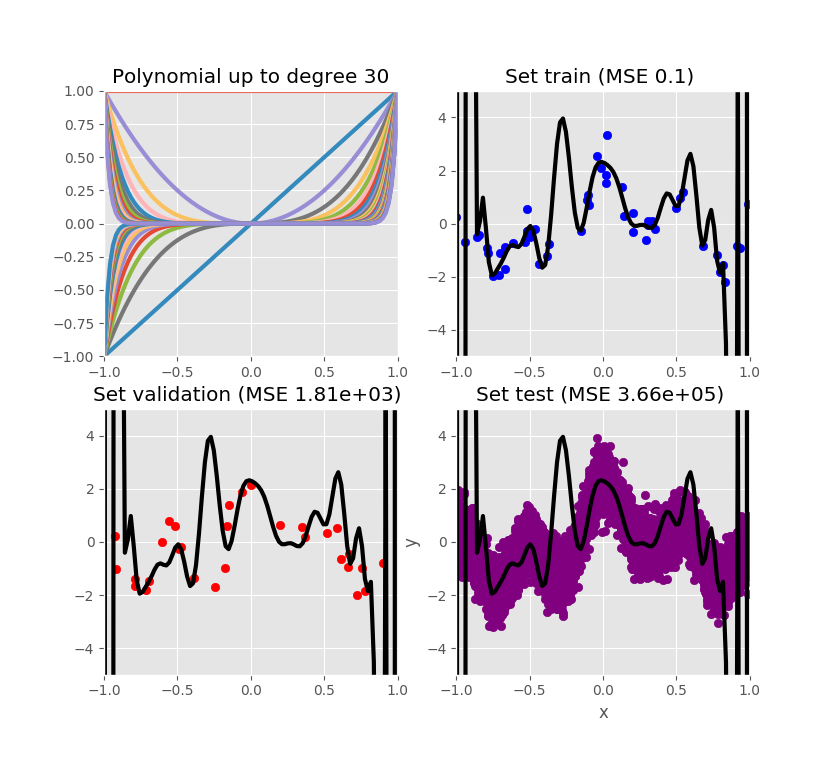
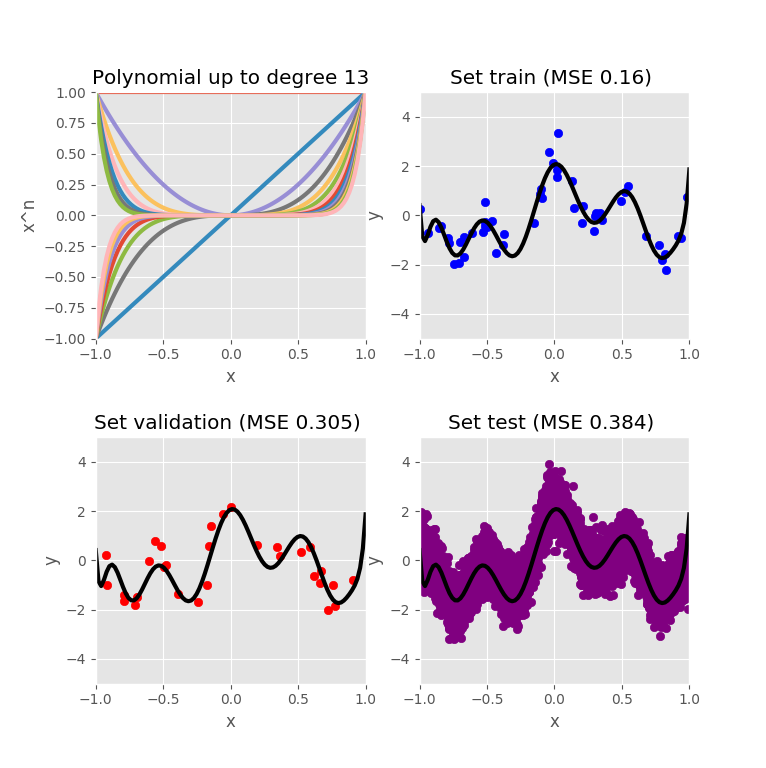
fixing scipy

Changed region(s): [[0.03, 0.091, 0.9308, 0.9103]]

diff --git a/assignement01/sources/main_logreg.py b/assignement01/sources/main_logreg.py
@@ -9,6 +9,10 @@ import gradient_descent as gd
 import logreg as lr
 import logreg_toolbox
 
+from mpl_toolkits.mplot3d import Axes3D
+from matplotlib import cm
+from matplotlib.ticker import LinearLocator, FormatStrFormatter
+
 __author__ = 'bellec, subramoney'
 
 """
@@ -21,9 +25,9 @@ This is the main file that loads the data, compute the solution and plot the res
 
 def main():
     # Set parameters
-    degree = 10
+    degree = 5
     eta = 1
-    max_iter = 2000
+    max_iter = 10
 
     # Load data and expand with polynomial features
     f = open('data_logreg.json', 'r')
@@ -32,6 +36,7 @@ def main():
 
     # Expand with polynomial features
     X_train = logreg_toolbox.poly_2D_design_matrix(data['x1_train'], data['x2_train'], degree)
+    X_test = logreg_toolbox.poly_2D_design_matrix(data['x1_test'], data['x2_test'], degree)
     n = X_train.shape[1]
 
     # Define the functions of the parameter we want to optimize
@@ -39,24 +44,57 @@ def main():
 
     def df(theta): return lr.grad(theta, X_train, data['y_train'])
 
+
+
     # Test to verify if the computation of the gradient is correct
     logreg_toolbox.check_gradient(f, df, n)
 
     # Point for initialization of gradient descent
     theta0 = np.zeros(n)
-
+    
     #### VARIANT 1: Optimize with gradient descent
-    # theta_opt, E_list = gd.gradient_descent(f, df, theta0, eta, max_iter)
-    # print(E_list)
+    theta_opt, E_list = gd.gradient_descent(f, df, theta0, eta, max_iter)
+    """
+    nb_iters =[]
+    eta_values =[]
+    train_errors =[]
+    test_errors = []
+
+    # Loop for visualising the relationship between the different errors, the number of iterations and the learning rate
+    # for nb_iter in range(1,50):
+    #     print(nb_iter)
+    #     for eta_value in range(0,110):
+    #         theta_opt, E_list = gd.gradient_descent(f, df, theta0, eta_value/10, nb_iter)
+    #         train_error = lr.cost(theta_opt, X_train, data['y_train'])
+    #         test_error = lr.cost(theta_opt, X_test, data['y_test'])
+    #         nb_iters.append(nb_iter)
+    #         eta_values.append(eta_value)
+    #         train_errors.append(train_error)
+    #         test_errors.append(test_errors)
+    # print(train_errors)
+    # fig = plt.figure()
+    # ax = fig.gca(projection='3d')
+    # eta_values, nb_iters = np.meshgrid(eta_values, nb_iters)
+    # surf = ax.plot_surface(eta_values, nb_iters, train_errors, rstride=1, cstride=1, cmap=cm.RdBu,linewidth=1, antialiased=False)
+
+    # ax.zaxis.set_major_locator(LinearLocator(10))
+    # ax.zaxis.set_major_formatter(FormatStrFormatter('%.02f'))
+
+    # fig.colorbar(surf, shrink=0.5, aspect=5)
+
+    # plt.show()
+    """
     #### VARIANT 2: Optimize with adaptive gradient descent
-    theta_opt, E_list, l_rate_final = gd.adaptative_gradient_descent(f, df, theta0, eta, max_iter)
-    print('Adaptative gradient, final learning rate: {:.3g}'.format(l_rate_final))
+    #theta_opt, E_list, l_rate_final = gd.adaptative_gradient_descent(f, df, theta0, eta, max_iter)
+    #print('Adaptative gradient, final learning rate: {:.3g}'.format(l_rate_final))
 
     #### VARIANT 3: Optimize with gradient descent on scipy
-    # res = minimize(f, x0=theta0, jac=df, options={'disp': True})
+    # E_list = []
+    # res = minimize(f, x0=theta0, jac=df, options={'disp': True}, method='Nelder-Mead')
     # theta_opt = res.x.reshape((n, 1))
 
-    E_list = []
+
+
     logreg_toolbox.plot_logreg(data, degree, theta_opt, E_list)
     plt.show()
 

diff --git a/assignement01/sources/main_poly.py b/assignement01/sources/main_poly.py
@@ -1,9 +1,11 @@
 #!/usr/bin/env python
 import json
+import time
 import matplotlib.pyplot as plt
 plt.style.use('ggplot')
 import poly
 from plot_poly import plot_poly
+from plot_poly import plot_errors
 import numpy as np
 
 __author__ = 'bellec, subramoney'
@@ -24,7 +26,7 @@ TODO boxes are to be found in 'poly.py'
 
 def main():
     # Set the degree of the polynomial expansion
-    degree = 30
+    degree = 13
     data_path = 'data_linreg.json'
     # Load the data
     f = open(data_path, 'r')
@@ -33,7 +35,9 @@ def main():
         data[k] = np.array(v).reshape((len(v), 1))
     
     #Print the training and testing errors
+    ts = time.time()
     theta, err_train, err_val, err_test = poly.train_and_test(data, degree)
+    print('Execution time: {}'.format(ts - time.time()))
     print(err_test)
     #plot the data
     plot_poly(data, degree, theta)

diff --git a/assignement01/sources/main_rbf.py b/assignement01/sources/main_rbf.py
@@ -1,5 +1,6 @@
 #!/usr/bin/env python
 import json
+import time
 import matplotlib.pyplot as plt
 from plot_rbf import plot_rbf
 import rbf
@@ -35,7 +36,9 @@ def main():
         data[k] = np.array(v).reshape((len(v), 1))
 
     # Print the training and testing errors
+    ts = time.time()
     theta, err_train, err_val, err_test = rbf.train_and_test(data, n_centers)
+    print('Execution time: {}'.format(ts - time.time()))
     print('Training error {} \t Validation error {} \t Testing error {} '.format(err_train, err_val, err_test))
 
     plot_rbf(data, n_centers, theta)

diff --git a/assignement01/sources/logreg_toolbox.py b/assignement01/sources/logreg_toolbox.py
@@ -101,9 +101,9 @@ def plot_logreg(data, degree, theta, E_list):
         ax[k].contour(xx1, xx2, hh, levels=[.5], linewidths=[3])
 
         ax[k].set_xlabel('x1')
+        if type(J) == np.ndarray: J = J[0]
         if k == 0:
             ax[k].set_ylabel('x2')
-
         ax[k].set_title('{} set J: {:.3f}'.format(st, J))
 
         # cbar = plt.colorbar()
